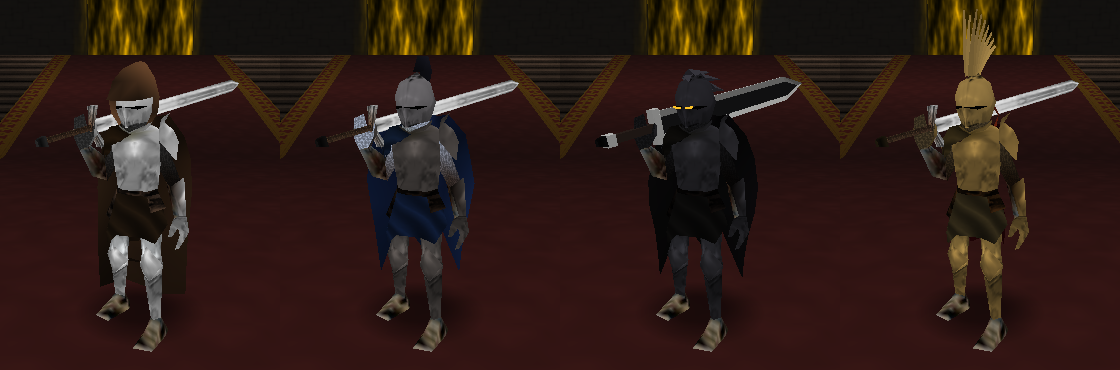
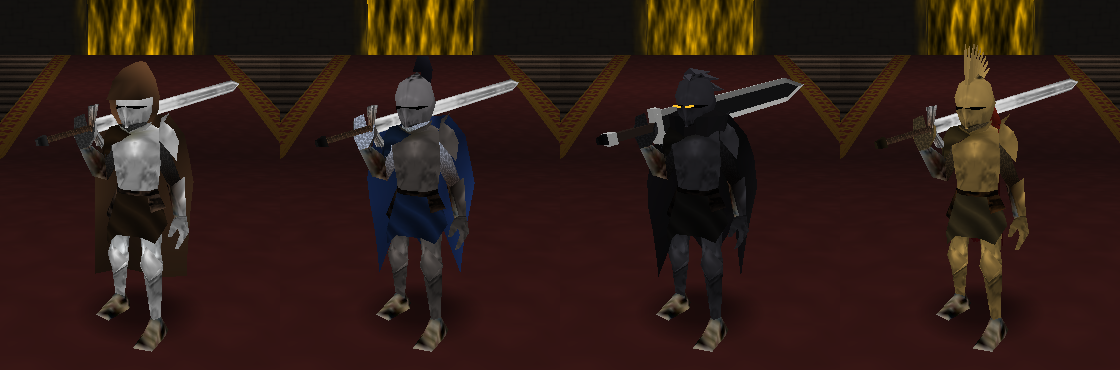
Skins: the Scarlet Valkyrie's crest shorter and grown from the helm's dome; a red mane from under the helm's back rim to the shoulder blades (five locks loosely tied, so they part and swing), clear of the resting blade, in place of the ponytail. Nightfarer: the helm's wings shorter, from its temples

diff --git a/src/character/character_skin.c b/src/character/character_skin.c
@@ -36,7 +36,7 @@ typedef struct {
 
 // Accessories: procedural meshes riding a bone (see acc_build)
 enum { ACC_WINGED_HELM = 1, ACC_BERSERK_HELM = 4, ACC_DRAGONSLAYER = 8,
-       ACC_NIGHTFARER_HELM = 16, ACC_SCARF = 32, ACC_CLAW_SHOT = 64 };
+       ACC_NIGHTFARER_HELM = 16, ACC_MANTLE = 32, ACC_CLAW_SHOT = 64 };
 
 typedef struct {
     const char *name;
@@ -58,21 +58,21 @@ static const SkinDef SKINS[SKIN_COUNT] = {
     [SKIN_WOLF_KNIGHT]      = { "Wolf Knight", .armor = C(112, 104, 100), .helm = C(146, 142, 146), .chain = C(165, 175, 196),
                                 .cloth = C(30, 52, 108), .hidePlume = true,
                                 .cl = { { CLOTH_CLOAK, C(42, 74, 152), true, 3.1f, 1.2f }, { CLOTH_PLUME, C(22, 22, 30), false, 3.6f, 0.4f } } },
-    // Guts: blackened plate, a spined wolf helm with burning eyes, a ragged black cloak, the Dragonslayer
+    // Guts: blackened plate, a spined wolf helm with burning eyes, a ragged black cloak over the shoulders and chest, the Dragonslayer
     [SKIN_BLACK_SWORDSMAN]  = { "Black Swordsman", .armor = C(58, 57, 63), .helm = C(52, 51, 58), .cloth = C(24, 22, 22),
                                 .chain = C(22, 22, 24), .hidePlume = true, .hideSword = true,
-                                .cl = { { CLOTH_CLOAK, C(26, 24, 27), true, 3.2f, 1.5f } }, .acc = ACC_BERSERK_HELM | ACC_DRAGONSLAYER },
-    // Malenia: brass plate, an olive pleated dress, a winged helm, a red ponytail over a crimson cape (it tapers)
+                                .cl = { { CLOTH_CLOAK, C(26, 24, 27), true, 3.2f, 1.5f } }, .acc = ACC_BERSERK_HELM | ACC_DRAGONSLAYER | ACC_MANTLE },
+    // Malenia: brass plate, an olive pleated dress, a winged helm, a red mane from under it over a crimson cape (it tapers)
     [SKIN_SCARLET_VALKYRIE] = { "Scarlet Valkyrie", .armor = C(196, 156, 82), .helm = C(208, 168, 92), .cloth = C(98, 80, 50),
                                 .chain = C(72, 60, 40), .hidePlume = true,
-                                .cl = { { CLOTH_HAIR, C(196, 64, 30), true, 3.4f, -0.45f }, { CLOTH_CLOAK, C(86, 12, 16), false, 2.3f, 1.8f, 0.3f } },
+                                .cl = { { CLOTH_HAIR, C(200, 50, 28), true, 2.0f, 0.45f }, { CLOTH_CLOAK, C(86, 12, 16), false, 2.3f, 1.8f, 0.3f } },
                                 .acc = ACC_WINGED_HELM },
-    // Nightfarer (Nightreign): a winged silver helm, a dark scarf, a royal-blue tabard and long coat,
+    // Nightfarer (Nightreign): a winged silver helm, a royal-blue coat across the shoulders and chest, a tabard,
     // the claw shot on his left forearm
     [SKIN_NIGHTFARER]           = { "Nightfarer", .armor = C(92, 96, 112), .helm = C(176, 180, 194), .cloth = C(30, 56, 150),
                                 .chain = C(58, 60, 72), .hidePlume = true,
                                 .cl = { { CLOTH_CLOAK, C(38, 66, 170), false, 3.2f, 0.75f } },
-                                .acc = ACC_NIGHTFARER_HELM | ACC_SCARF | ACC_CLAW_SHOT },
+                                .acc = ACC_NIGHTFARER_HELM | ACC_MANTLE | ACC_CLAW_SHOT },
 };
 
 static int  s_skin = SKIN_KNIGHT;
@@ -167,7 +167,7 @@ typedef struct {
     float time;
     T3DVertPacked *vb[RING];
     rspq_block_t *tris[RING];   // loads its buffer and draws the grid: recorded once (per width)
-    int trisCols;
+    int trisGrid;               // the grid they were built for: cols x 16 + rows
     float acc;                  // time gathered for the next step (it steps every other frame)
     int built;                  // the ring slot holding the vertices last built (-1: none)
     bool stepped;               // stepped this frame: drawn halfway from the last state (q) to p
@@ -196,8 +196,8 @@ static void cloth_anchors(Cloth *cl, const ClothSpec *sp)
             bone_world(B_SPINE, 1.25f - 0.7f * u * u + ((c & 1) ? 0.06f : 0.0f), 2.62f - sp->drop, 0.8f * u, cl->anchor[c]);
         else if (sp->kind == CLOTH_CLOAK)   // from round the hood, onto the pauldrons at the sides, pleated (it flares out from there)
             bone_world(B_SPINE, 0.95f - 0.95f * u * u + ((c & 1) ? 0.08f : 0.0f), 2.62f, 1.1f * u, cl->anchor[c]);
-        else if (sp->kind == CLOTH_HAIR)    // a ponytail from the back of the helm
-            bone_world(B_HEAD, 0.62f, 1.4f, 0.13f * u, cl->anchor[c]);
+        else if (sp->kind == CLOTH_HAIR)    // a mane from under the helm's back rim, at the nape
+            bone_world(B_HEAD, 0.4f + 0.18f * (1.0f - u * u), 0.85f, 0.5f * u, cl->anchor[c]);
         else {                              // a crest on top of the helm that arches up and back
             bone_world(B_HEAD, -0.15f + 0.25f * (u + 1.0f), 2.0f, 0.1f * u, cl->anchor[c]);
             bone_world(B_HEAD, 0.35f + 0.25f * (u + 1.0f), 2.55f, 0.12f * u, cl->anchor2[c]);
@@ -389,7 +389,7 @@ static void cloth_step(Cloth *cl, const ClothSpec *sp, float h, const float back
                     link(PC(cl, c, r), PC(cl, c, r + 2), cl->bl[r][c], r == 0 ? 0.0f : SHARE1[r], strands(sp) ? 1.0f : 0.35f);
         int loose = sp->tattered ? cl->rows - 3 : cl->rows;   // tatters hang as free strands
         for (int r = 1; r < loose; r++)
-            for (int c = 0; c < cl->cols - 1; c++) link(PC(cl, c, r), PC(cl, c + 1, r), cl->hl[r], 0.5f, 1.0f);
+            for (int c = 0; c < cl->cols - 1; c++) link(PC(cl, c, r), PC(cl, c + 1, r), cl->hl[r], 0.5f, (sp->kind == CLOTH_HAIR && r > 1) ? 0.5f : 1.0f);
 #ifdef HLE_LOG_CLOTH
         uint32_t tc = TICKS_READ();
 #endif
@@ -468,7 +468,7 @@ static void cloth_draw(Cloth *cl, const ClothSpec *sp, const T3DMat4FP *modelMat
             cl->vb[i] = malloc_uncached(sizeof(T3DVertPacked) * CLOTH_N);   // the outside, then the lining
         }
     }
-    if (cl->trisCols != cl->cols) {   // the grid's triangles never change: built once, not each frame
+    if (cl->trisGrid != cl->cols * 16 + cl->rows) {   // the grid's triangles never change: built once, not each frame
         gpu_wait();
         for (int k = 0; k < RING; k++) {
             if (cl->tris[k]) rspq_block_free(cl->tris[k]);
@@ -485,7 +485,7 @@ static void cloth_draw(Cloth *cl, const ClothSpec *sp, const T3DMat4FP *modelMat
             }
             cl->tris[k] = gpu_block_end();
         }
-        cl->trisCols = cl->cols;
+        cl->trisGrid = cl->cols * 16 + cl->rows;
     }
     // Built every frame, the cloth stepping every other one (a step costs 1.5 ms): a step frame
     // shows halfway from the last step (Verlet keeps it in q), the next frame the step itself.
@@ -544,7 +544,7 @@ static void cloth_draw(Cloth *cl, const ClothSpec *sp, const T3DMat4FP *modelMat
                 nv[0] *= nl; nv[1] *= nl; nv[2] *= nl;
                 // strands get a sheen down the middle, cloth darkens toward the hem and in its pleats (the
                 // odd columns, pinned further out: hanging smooth, the folds still read)
-                float bias = strands(sp) ? 0.85f + 0.3f * (c == cl->cols / 2) : (1.0f - 0.25f * r / cl->rows) * ((c & 1) ? 0.72f : 1.0f);
+                float bias = sp->kind == CLOTH_HAIR ? ((c & 1) ? 0.72f : 1.05f) : strands(sp) ? 0.85f + 0.3f * (c == cl->cols / 2) : (1.0f - 0.25f * r / cl->rows) * ((c & 1) ? 0.72f : 1.0f);
                 cl->col[i] = shade_tinted(tint, nv, bias);
             }
             const float *p = DC(c, r);
@@ -679,12 +679,12 @@ __attribute__((noinline, optimize("Os"))) static void acc_winged_helm(SkinColor 
     // in two leaves splayed a little so it reads from behind as well
     for (int side = -1; side <= 1; side += 2)
         for (int k = 0; k < 7; k++) {
-            float a = (96.0f - k * 9.0f) * (float)M_PI / 180.0f, len = 2.1f - 0.12f * k, w = 0.26f - 0.012f * k;
-            float bx = -0.72f + 0.13f * k, by = 1.84f + 0.03f * k;
+            float a = (96.0f - k * 9.0f) * (float)M_PI / 180.0f, len = 1.3f - 0.075f * k, w = 0.22f - 0.01f * k;
+            float bx = -0.72f + 0.13f * k, ox = bx + 0.34f, by = 1.07f + sqrtf(0.81f - ox * ox) - 0.3f;   // rooted in the dome
             float dx = cosf(a), dy = sinf(a), sz = side * 0.08f;     // a slight V, to read from behind
             float l[4][3], r[4][3];
             for (int i = 0; i < 4; i++) {
-                float t = i / 3.0f, ww = w * (1.0f - 0.7f * t), bend = 0.45f * t * t;   // tips curl back
+                float t = i / 3.0f, ww = w * (1.0f - 0.7f * t), bend = 0.28f * t * t;   // tips curl back
                 float px = bx + dx * len * t + bend, py = by + dy * len * t, pz = side * 0.05f + sz * t * len;
                 G(l[i], px - dy * ww, py + dx * ww, pz); G(r[i], px + dy * ww, py - dx * ww, pz);
             }
@@ -700,15 +700,15 @@ __attribute__((noinline, optimize("Os"))) static void acc_nightfarer_helm(SkinCo
     // flaring out from the helm a little
     for (int side = -1; side <= 1; side += 2)
         for (int k = 0; k < 5; k++) {
-            float a = (80.0f - k * 12.0f) * (float)M_PI / 180.0f, len = 1.7f - 0.14f * k, w = 0.28f - 0.02f * k;
-            float bx = -0.2f + 0.12f * k, by = 1.55f + 0.05f * k, bz = side * 0.62f;
+            float a = (62.0f - k * 12.0f) * (float)M_PI / 180.0f, len = 1.3f - 0.11f * k, w = 0.26f - 0.02f * k;
+            float bx = -0.15f + 0.12f * k, by = 1.15f + 0.05f * k, bz = side * 0.82f;
             float dx = cosf(a), dy = sinf(a);
             // each feather's face tilted 45 degrees outward, so the wing reads from behind too
             const float ci = 0.7071f, so = 0.7071f;
             float l[4][3], r[4][3];
             for (int i = 0; i < 4; i++) {
                 float t = i / 3.0f, ww = w * (1.0f - 0.6f * t), bend = 0.35f * t * t;
-                float px = bx + dx * len * t + bend, py = by + dy * len * t, pz = bz + side * 0.4f * t;
+                float px = bx + dx * len * t + bend, py = by + dy * len * t, pz = bz + side * 0.6f * t;
                 float wx = -dy * ww * ci, wy = dx * ww * ci, wz = side * ww * so;
                 G(l[i], px + wx, py + wy, pz + wz); G(r[i], px - wx, py - wy, pz - wz);
             }
@@ -741,20 +741,30 @@ __attribute__((noinline, optimize("Os"))) static void acc_claw_shot(void)
     }
 }
 
-__attribute__((noinline, optimize("Os"))) static void ring(float cx, float cy, float rx, float ry, float rz, float th0, float th1, int nt, int np, uint32_t col, float fluff)
+// A mantle in the cloak's colour: from close round the neck, down over the shoulders and across
+// the chest, its back over the cloak's pins (one piece with it). A hem dipping in front; ragged if
+// the cloak is. Static, in the spine's space: no cloth cost
+__attribute__((noinline, optimize("Os"))) static void acc_mantle(const ClothSpec *cloak)
 {
-    for (int j = 0; j < np; j++)
-        for (int i = 0; i < nt; i++) {
-            float t[2] = { th0 + (th1 - th0) * i / nt, th0 + (th1 - th0) * (i + 1) / nt };
-            float f[2] = { -1.4f + 2.8f * j / np, -1.4f + 2.8f * (j + 1) / np };
-            float q[4][3];
-            for (int k = 0; k < 4; k++) {
-                float th = t[(k == 1 || k == 2)], ph = f[k >= 2];
-                float fl = 1.0f + fluff * sinf(th * 13.0f + ph * 5.0f);
-                G(q[k], cx + rx * cosf(ph) * cosf(th) * fl, cy + ry * sinf(ph) * fl, rz * cosf(ph) * sinf(th) * fl);
-            }
-            proc_mesh_quad(q[0], q[1], q[2], q[3], col, false);
-        }
+    enum { NT = 16 };
+    float top[NT + 1][3], mid[NT + 1][3], hem[NT + 1][3];
+    for (int i = 0; i <= NT; i++) {
+        float th = -(float)M_PI + 2.0f * (float)M_PI * i / NT, c = cosf(th), sn = sinf(th);   // th 0: the back (+X)
+        float front = c < 0 ? c * c : 0.0f;                    // 1 at the chest
+        float rag = (cloak->tattered && (i & 1)) ? 0.14f : 0.0f;
+        G(top[i], -0.12f + 0.58f * c, 2.78f - 0.12f * front, 0.64f * sn);    // below the visor
+        G(mid[i], -0.08f + 0.9f * c, 2.6f - 0.1f * front, 1.06f * sn);     // over the shoulders, where the cloak pins
+        G(hem[i], -0.06f + 0.84f * c, 2.2f - 0.26f * front - rag, 1.0f * sn);   // tucked in onto the body: flush
+    }
+    SkinColor k = cloak->color;   // as dark as the lit cloak (shaded, it's darker than its colour)
+    k.r = k.r * 4 / 5; k.g = k.g * 4 / 5; k.b = k.b * 4 / 5;
+    uint32_t col = rgb(k);
+    k.r = k.r * 3 / 4; k.g = k.g * 3 / 4; k.b = k.b * 3 / 4;   // the neck's fold a shade darker
+    uint32_t fold = rgb(k);
+    for (int i = 0; i < NT; i++) {
+        proc_mesh_quad(top[i], top[i + 1], mid[i + 1], mid[i], fold, false);
+        proc_mesh_quad(mid[i], mid[i + 1], hem[i + 1], hem[i], col, false);
+    }
 }
 
 __attribute__((noinline, optimize("Os"))) static void acc_berserk_helm(SkinColor steel)
@@ -852,7 +862,7 @@ static void acc_build(void)
     ACC(ACC_BERSERK_HELM, B_HEAD, acc_berserk_helm(s->helm));
     ACC(ACC_DRAGONSLAYER, B_HAND_R, acc_dragonslayer((SkinColor)C(70, 68, 70)));
     ACC(ACC_NIGHTFARER_HELM, B_HEAD, acc_nightfarer_helm(s->helm));
-    ACC(ACC_SCARF, B_SPINE, ring(-0.1f, 2.66f, 1.2f, 0.36f, 1.28f, -2.6f, 2.6f, 16, 3, proc_rgb(48, 50, 60), 0.03f));
+    ACC(ACC_MANTLE, B_SPINE, acc_mantle(&s->cl[0]));
     ACC(ACC_CLAW_SHOT, B_FORE_L, acc_claw_shot());
     #undef ACC
 }
@@ -1010,8 +1020,8 @@ void character_skin_draw_extras(const T3DSkeleton *skel, const T3DMat4FP *modelM
         const ClothSpec *sp = &s->cl[k];
         Cloth *cl = &s_cloth[k];
         if (sp->kind == CLOTH_NONE) continue;
-        cl->cols = sp->kind == CLOTH_CLOAK ? CLOTH_COLS : 2;     // hair (a ponytail) and plumes: two strands
-        cl->rows = CLOTH_ROWS;
+        cl->cols = sp->kind == CLOTH_CLOAK ? CLOTH_COLS : sp->kind == CLOTH_HAIR ? 5 : 2;     // a mane: five locks; plumes: two strands
+        cl->rows = sp->kind == CLOTH_HAIR ? 6 : CLOTH_ROWS;     // the mane is short
 #ifdef HLE_LOG_CLOTH
         uint32_t ta = TICKS_READ();
 #endif
